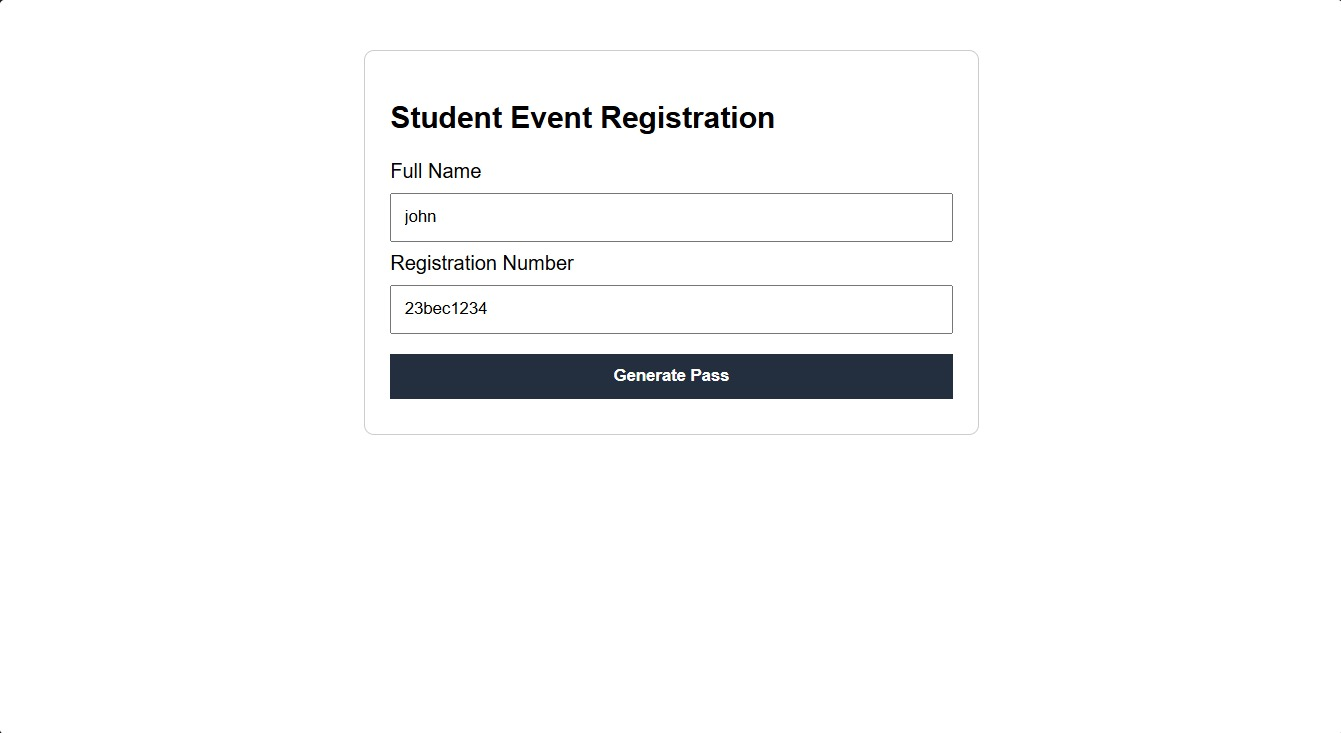
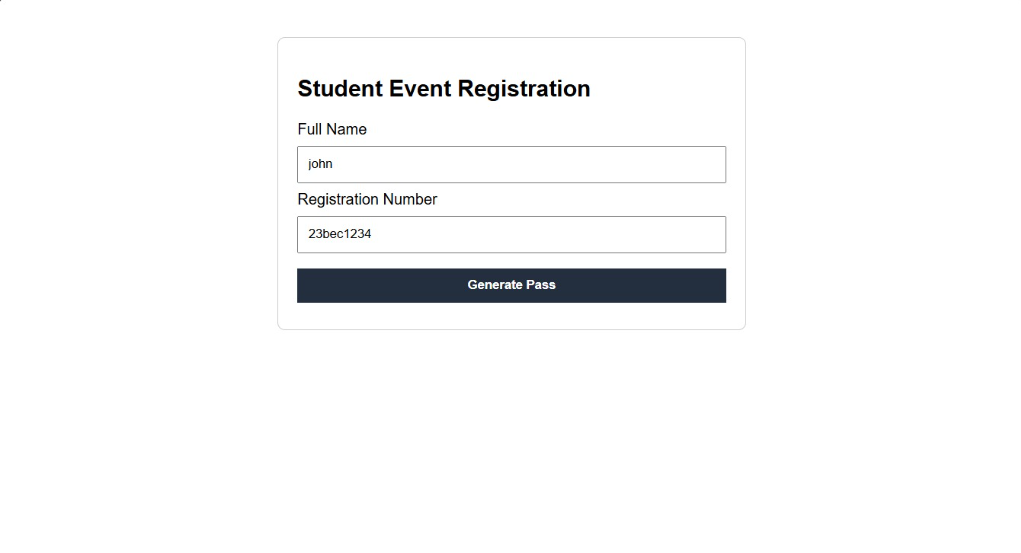
Fix screenshots

diff --git a/README.md b/README.md
@@ -42,7 +42,7 @@ student-event-qr-pass-system/
 
 ## Screenshot
 
-<img src="screenshots/home.png" width="800">
+![Application Screenshot](screenshots/home.png)
 <img src="screenshots/qr_generated.jpeg" width="800">
 
 ## How to Run
